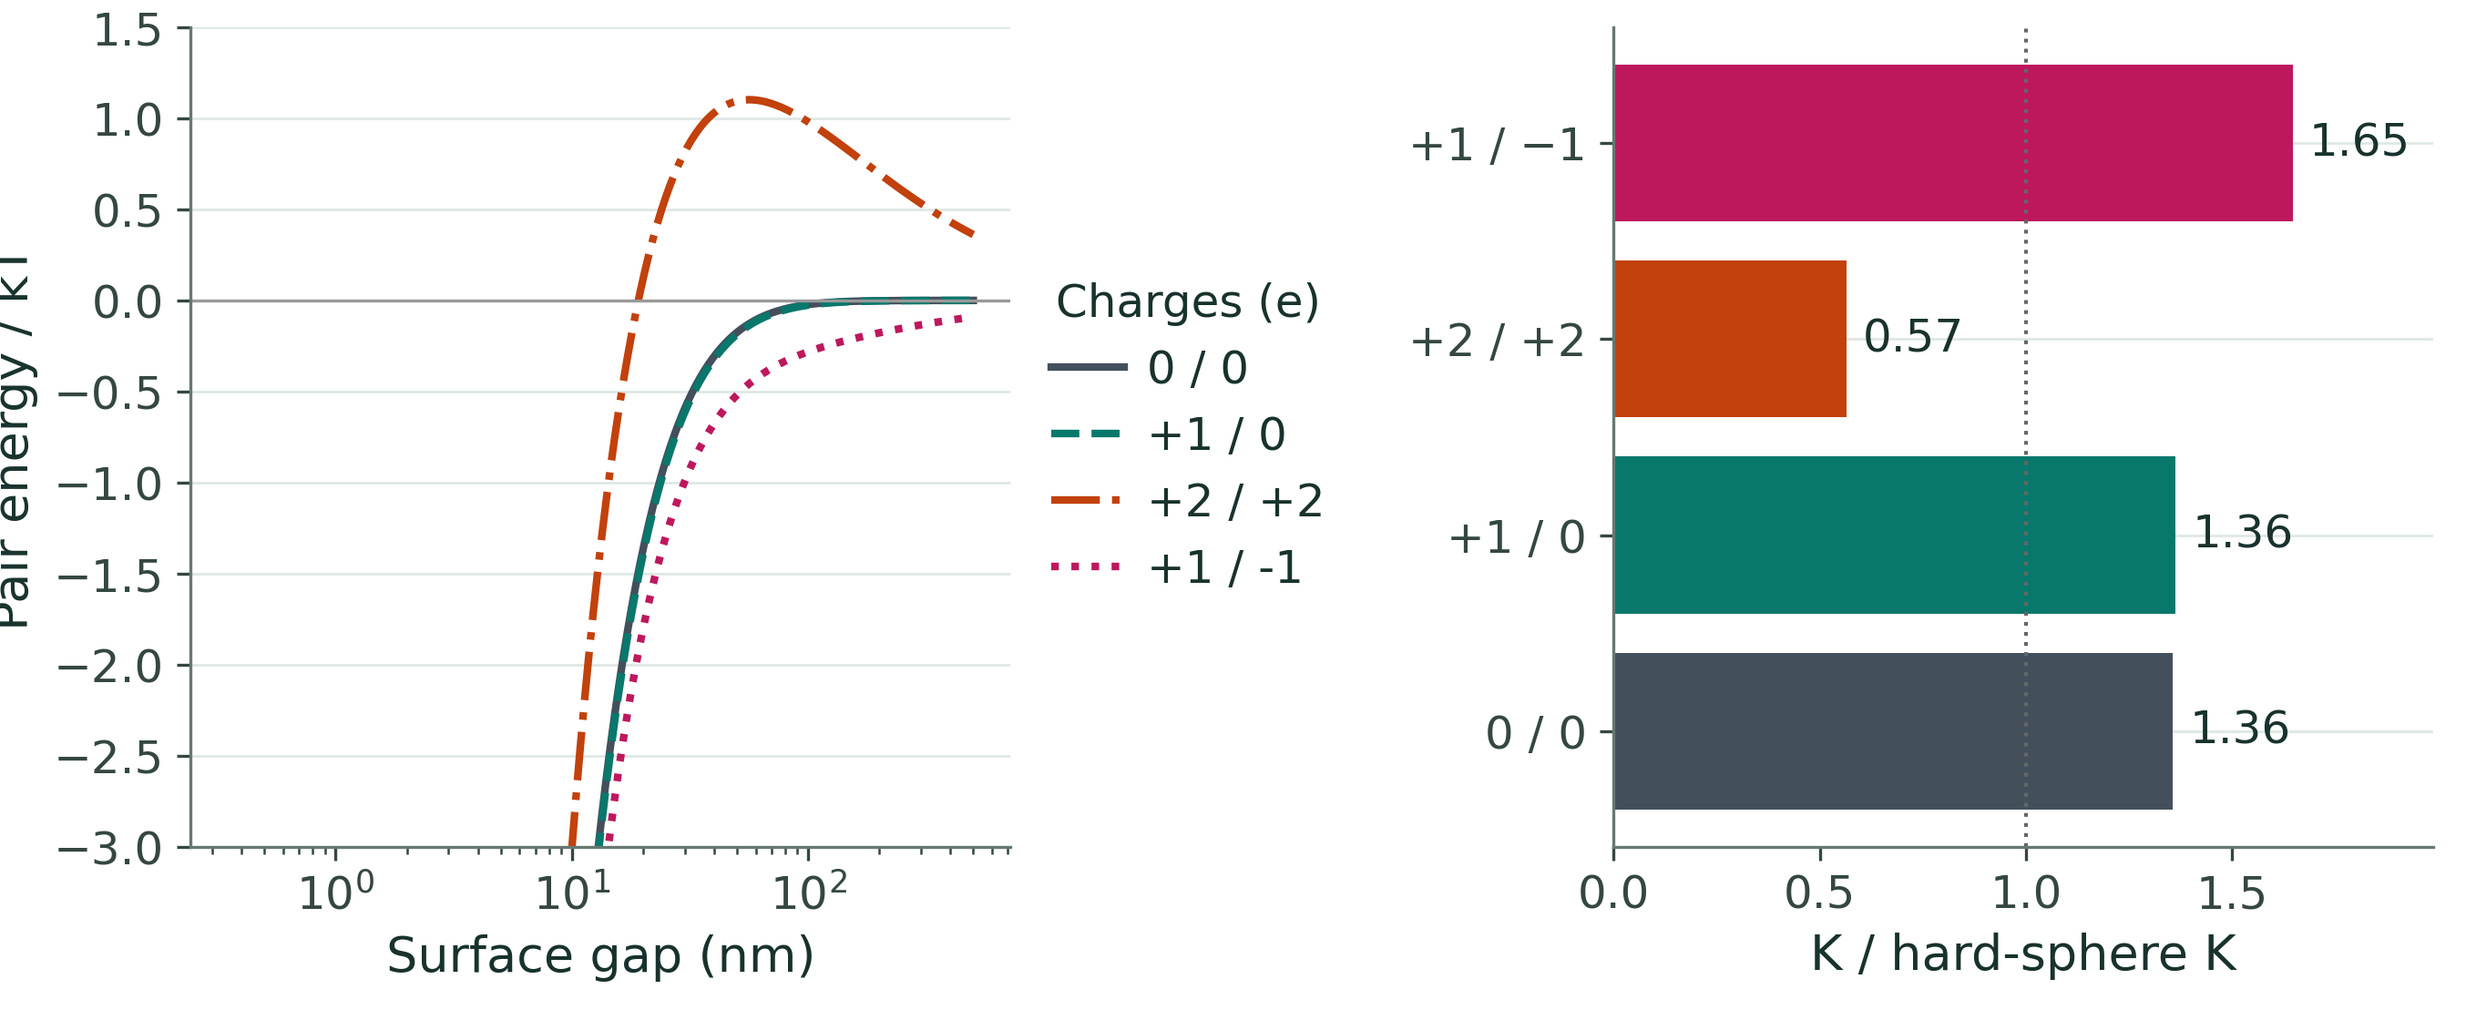
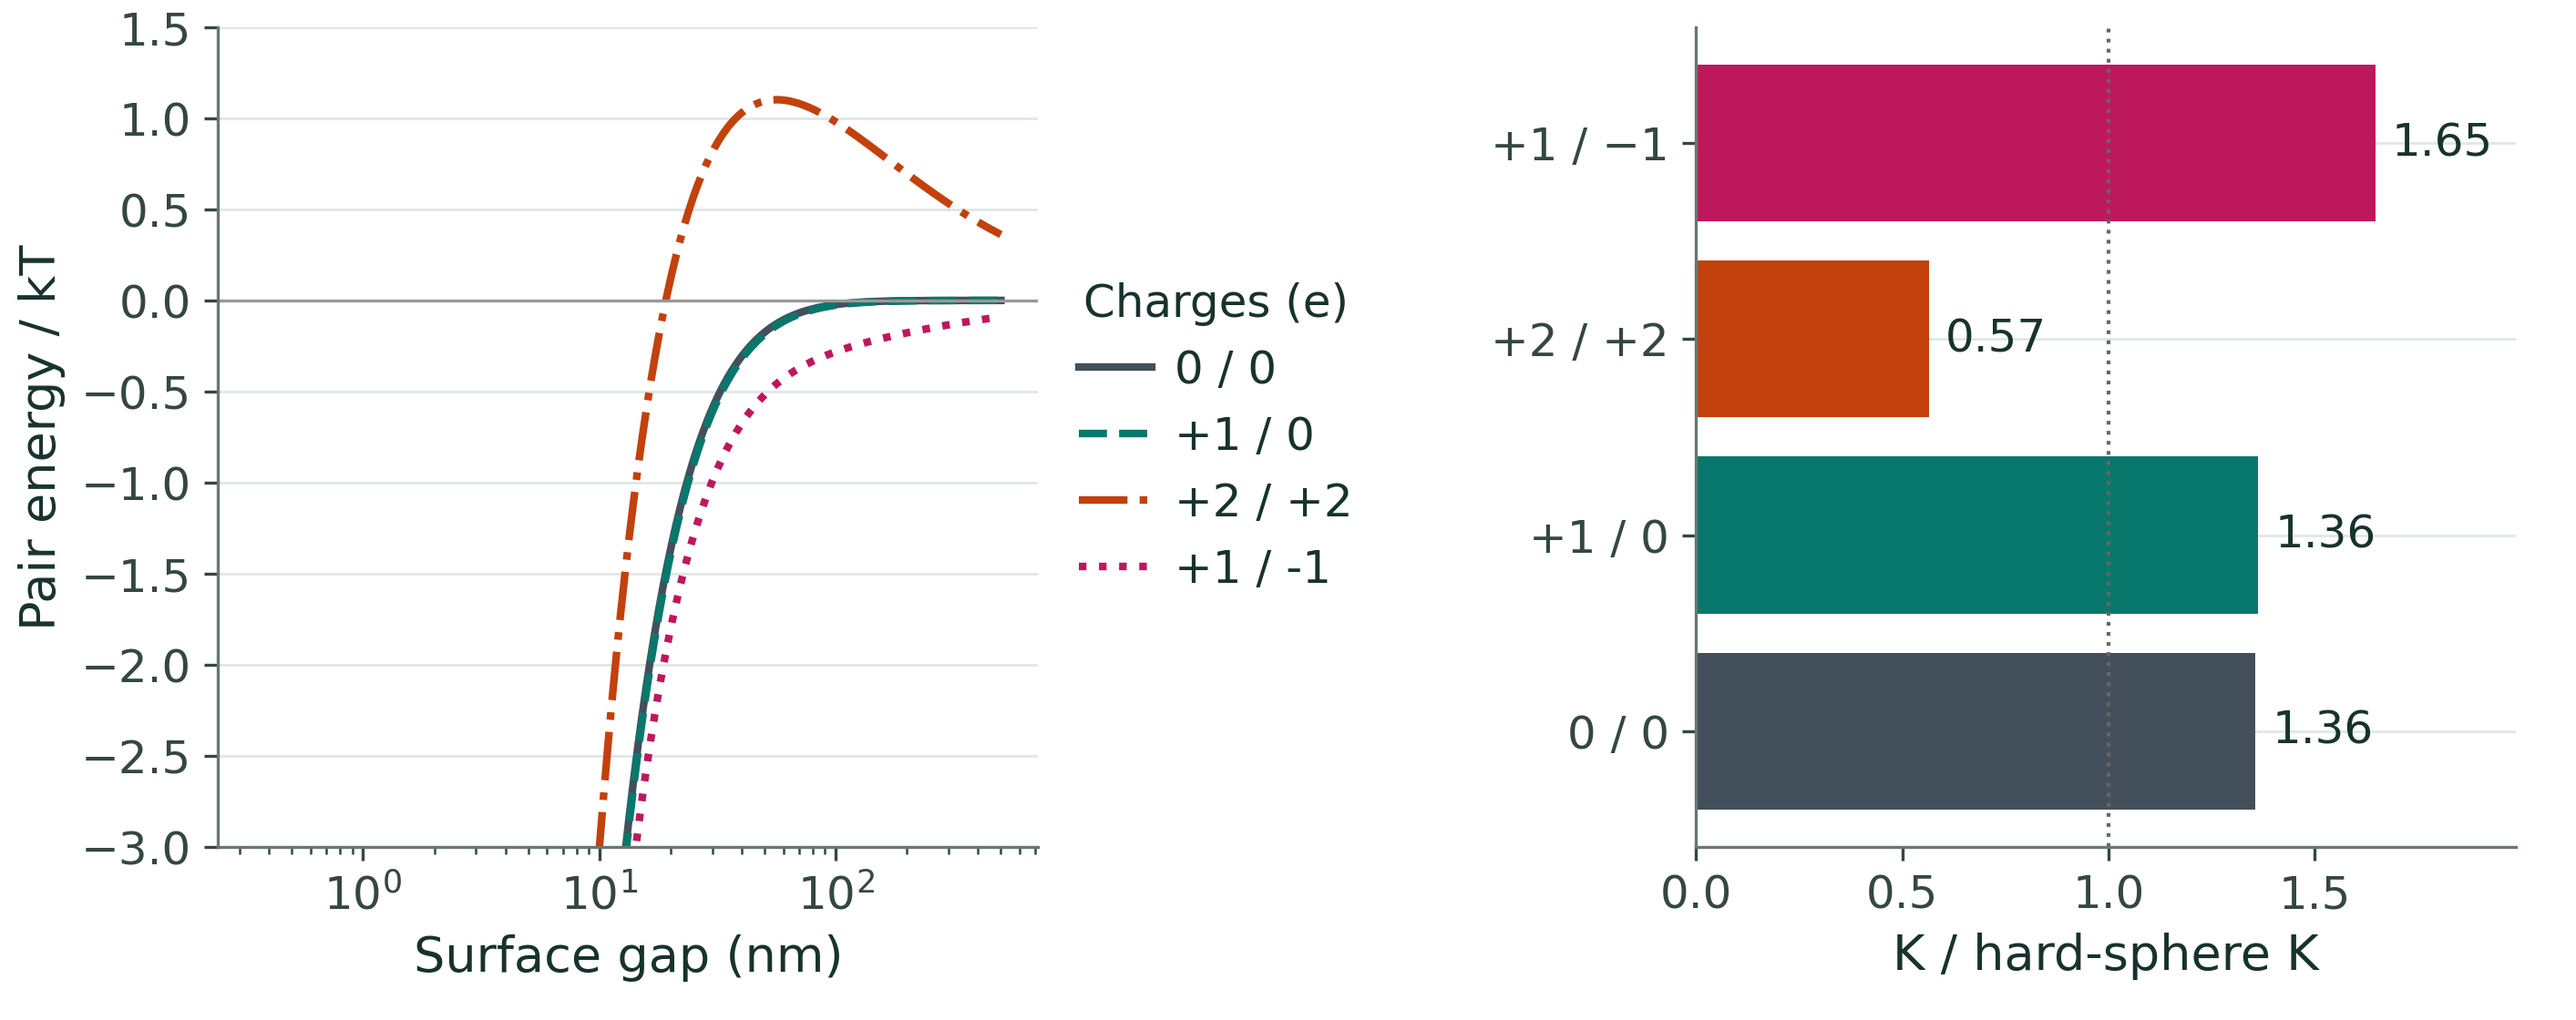
docs(results): verify historical plot data against the original scientific checkout

diff --git a/scripts/docs_examples.py b/scripts/docs_examples.py
@@ -76,6 +76,7 @@ def fingerprint(config, root=ROOT):
         "replot_invoke",
         "render_functions",
         "plot_inputs",
+        "historical_run",
     ):
         if key in config:
             payload[key] = config[key]
@@ -285,8 +286,10 @@ def write_plot_data(path, data):
         raise
 
 
-def load_replot_data(example_id, config, root, results):
+def load_replot_data(example_id, config, root, results, *, science_root=None):
     """Reject missing, altered or scientifically stale numerical data."""
+    if science_root is not None:
+        return load_historical_data(example_id, config, science_root, results)
     directory, original = bundle(example_id, results)
     if not original or "data.json" not in original["files"]:
         raise ValueError(
@@ -307,6 +310,31 @@ def load_replot_data(example_id, config, root, results):
     data = json.loads((directory / "data.json").read_text())
     if not isinstance(data, (dict, list)):
         raise ValueError("Plot data must be a JSON object or array")
+    return directory, original, data
+
+
+def load_historical_data(example_id, config, science_root, results):
+    """Check saved observations against their original scientific checkout."""
+    pin = config.get("historical_run")
+    if not pin:
+        raise ValueError("This example has no pinned historical run")
+    revision = subprocess.check_output(  # noqa: S603 -- Git argv without a shell
+        [GIT, "rev-parse", "HEAD"], cwd=science_root, text=True
+    ).strip()
+    if revision != pin["revision"]:
+        raise ValueError(
+            "Historical checkout does not match the pinned revision"
+        )
+    historical_config = json.loads(
+        (science_root / "website/examples.json").read_text()
+    )[example_id]
+    directory, original, data = load_replot_data(
+        example_id, historical_config, science_root, results
+    )
+    if original["revision"] != revision or (
+        original["files"]["data.json"] != pin["data_sha256"]
+    ):
+        raise ValueError("Saved data does not match the pinned historical run")
     return directory, original, data
 
 
@@ -354,7 +382,43 @@ def validate_render(config, root, source, initial_fingerprint, cells, data):
         )
 
 
-def refresh(example_id, config, root=ROOT, results=RESULTS, *, replot=False):
+def retain_execution_metadata(
+    manifest, original, config, science_root, device, revision, elapsed
+):
+    """Identify the rendering separately from the original simulation."""
+    if science_root is not None:
+        manifest["historical_run"] = config["historical_run"]
+        manifest["simulation_fingerprint"] = original["simulation_fingerprint"]
+    manifest["render_versions"] = manifest["versions"]
+    manifest["render_device"] = device
+    for key in (
+        "elapsed_seconds",
+        "package_source_sha256",
+        "revision",
+        "package_dirty",
+        "executed_at",
+        "device",
+        "python",
+        "versions",
+    ):
+        manifest[key] = original[key]
+    manifest["execution_input_sha256"] = original.get(
+        "execution_input_sha256", original["input_sha256"]
+    )
+    manifest["rendered_at"] = datetime.now(timezone.utc).isoformat()
+    manifest["render_revision"] = revision
+    manifest["render_elapsed_seconds"] = elapsed
+
+
+def refresh(
+    example_id,
+    config,
+    root=ROOT,
+    results=RESULTS,
+    *,
+    replot=False,
+    science_root=None,
+):
     """Publish a complete result generation only after successful execution."""
     source = (root / config["source"]).read_bytes()
     initial_fingerprint = fingerprint(config, root)
@@ -365,7 +429,7 @@ def refresh(example_id, config, root=ROOT, results=RESULTS, *, replot=False):
     data = None
     if replot:
         directory, original, data = load_replot_data(
-            example_id, config, root, results
+            example_id, config, root, results, science_root=science_root
         )
     started = time.monotonic()
     cells, device = (
@@ -435,25 +499,15 @@ def refresh(example_id, config, root=ROOT, results=RESULTS, *, replot=False):
                 config, root
             )
         if replot:
-            manifest["render_versions"] = manifest["versions"]
-            manifest["render_device"] = device
-            for key in (
-                "elapsed_seconds",
-                "package_source_sha256",
-                "revision",
-                "package_dirty",
-                "executed_at",
-                "device",
-                "python",
-                "versions",
-            ):
-                manifest[key] = original[key]
-            manifest["execution_input_sha256"] = original.get(
-                "execution_input_sha256", original["input_sha256"]
+            retain_execution_metadata(
+                manifest,
+                original,
+                config,
+                science_root,
+                device,
+                revision,
+                elapsed,
             )
-            manifest["rendered_at"] = datetime.now(timezone.utc).isoformat()
-            manifest["render_revision"] = revision
-            manifest["render_elapsed_seconds"] = elapsed
         (pending / "manifest.json").write_text(
             json.dumps(manifest, indent=2) + "\n"
         )
@@ -632,6 +686,11 @@ def main():
     run.add_argument("example")
     replot = sub.add_parser("replot")
     replot.add_argument("example")
+    replot.add_argument(
+        "--science-checkout",
+        type=Path,
+        help="Verify archived data against its original scientific checkout.",
+    )
     sub.add_parser("migrate-results")
     check = sub.add_parser("check")
     check.add_argument("--changed", action="store_true")
@@ -646,7 +705,10 @@ def main():
         if args.example not in configs:
             parser.error(f"Unknown example: {args.example}")
         refresh(
-            args.example, configs[args.example], replot=args.command == "replot"
+            args.example,
+            configs[args.example],
+            replot=args.command == "replot",
+            science_root=getattr(args, "science_checkout", None),
         )
         return
     selected = (

diff --git a/scripts/tests/docs_examples_test.py b/scripts/tests/docs_examples_test.py
@@ -519,3 +519,60 @@ def test_full_canvas_fingerprints_style_without_invalidating_legacy(example):
         assert examples.fingerprint(styled, root) != initial
         (root / name).write_text("original")
     assert examples.fingerprint(config, root) == legacy
+
+
+def test_historical_replot_checks_original_inputs_and_pinned_data(tmp_path):
+    """An archive must match the original source, library and observations."""
+    science = tmp_path / "original"
+    science.mkdir()
+    (science / "website").mkdir()
+    config = {"source": "study.py", "device": "cuda"}
+    (science / "study.py").write_text("value = 3\n")
+    (science / "website/examples.json").write_text(json.dumps({"demo": config}))
+
+    def git(*args):
+        return subprocess.check_output(  # noqa: S603 -- local test repository
+            [examples.GIT, *args], cwd=science, text=True
+        ).strip()
+
+    git("init", "-q")
+    git("add", ".")
+    git(
+        "-c",
+        "user.name=Test",
+        "-c",
+        "user.email=test@example.org",
+        "commit",
+        "-qm",
+        "Original study",
+    )
+    revision = git("rev-parse", "HEAD")
+    results = tmp_path / "results"
+    directory = results / "demo"
+    directory.mkdir(parents=True)
+    data = b'{"observation": 3}'
+    (directory / "data.json").write_bytes(data)
+    digest = hashlib.sha256(data).hexdigest()
+    manifest = {
+        "revision": revision,
+        "files": {"data.json": digest},
+        "simulation_fingerprint": examples.simulation_fingerprint(
+            config, science
+        ),
+        "package_source_sha256": examples.package_source_hash(science),
+    }
+    (directory / "manifest.json").write_text(json.dumps(manifest))
+    pin = {"revision": revision, "data_sha256": digest}
+    current = {**config, "historical_run": pin}
+    assert examples.load_historical_data("demo", current, science, results)[
+        2
+    ] == {"observation": 3}
+    with pytest.raises(ValueError, match="no pinned"):
+        examples.load_historical_data("demo", config, science, results)
+    pin["data_sha256"] = "0" * 64
+    with pytest.raises(ValueError, match="pinned historical run"):
+        examples.load_historical_data("demo", current, science, results)
+    pin["data_sha256"] = digest
+    (science / "study.py").write_text("value = 4\n")
+    with pytest.raises(ValueError, match="Simulation inputs changed"):
+        examples.load_historical_data("demo", current, science, results)

diff --git a/scripts/docs_site.py b/scripts/docs_site.py
@@ -215,6 +215,15 @@ def example_downloads(key, config, source):
     return " · ".join(links)
 
 
+def result_notice(state, manifest):
+    """Describe the evidence behind the displayed figures."""
+    if state != "current":
+        return "Results from an earlier run—refresh needed", "caution"
+    if manifest.get("historical_run"):
+        return "Historical simulation, updated figures", "caution"
+    return "Matching saved results", "note"
+
+
 def render_example(key, config):
     """Render current source and saved output without execution."""
     directory, manifest = bundle(key)
@@ -225,12 +234,7 @@ def render_example(key, config):
     if directory:
         destination = SITE / "public/results" / key
         shutil.copytree(directory, destination, dirs_exist_ok=True)
-        status = (
-            "Matching saved results"
-            if state == "current"
-            else "Results from an earlier run—refresh needed"
-        )
-        kind = "note" if state == "current" else "caution"
+        status, kind = result_notice(state, manifest)
         executed_source = (
             "executed_source.py" if "rendered_at" in manifest else "source.py"
         )

diff --git a/docs/examples/gpu/prepared/gpu_prepared_cyclic_chamber.py b/docs/examples/gpu/prepared/gpu_prepared_cyclic_chamber.py
@@ -1,6 +1,11 @@
 # %% [markdown]
 # # Repeated source pulses in a cooling and warming aerosol
 #
+# The figures use the archived November 16 CUDA run. At its one-second
+# coagulation interval, current Particula requests 275,911 collision trials
+# in the first box and has capacity for 3,136. The current simulation stops
+# at that check. The archived arrays retain the original interval and model.
+#
 # What must be saved to reproduce a simulation driven by repeated external
 # pulses? This example separates the evolving aerosol from the forcing schedule
 # and its source ledger. Start with the [prepared quick start](gpu_prepared_quick_start.py)

diff --git a/scripts/docs_report.py b/scripts/docs_report.py
@@ -48,7 +48,9 @@ def execution_inventory():
                 "source": config["source"],
                 "policy": config["policy"],
                 "bundle": str(directory.relative_to(ROOT)),
-                "state": "current",
+                "state": "historical"
+                if manifest.get("historical_run")
+                else "current",
                 **{name: manifest[name] for name in required},
                 "figures": sum(
                     "image" in item

diff --git a/scripts/coagulation_validation/potential_figure.py b/scripts/coagulation_validation/potential_figure.py
@@ -72,7 +72,7 @@ def plot():
         / "docs/images/coagulation/van-der-waals-potentials.png"
     )
     path.parent.mkdir(parents=True, exist_ok=True)
-    fig.get_layout_engine().set(w_pad=0.12, h_pad=0.10)
+    fig.get_layout_engine().set(w_pad=0.22, h_pad=0.10)
     plotting.fit(fig)
     fig.savefig(path, dpi=300)
     plt.close(fig)

diff --git a/website/AUTHORING.md b/website/AUTHORING.md
@@ -53,6 +53,19 @@ JSON has a **10 MiB hard limit per example**, enforced while writing. This limit
 saved plot data, not simulation RAM or figure size. Oversized data fails clearly
 and preserves the previous successful bundle; it is never silently truncated.
 
+A historical study can pin its original scientific revision and the SHA-256
+of its published `data.json` in the registry under `historical_run`. To redraw
+it, point the same verification checks at a checkout of the executed revision:
+
+```bash
+python scripts/docs_examples.py replot gpu-prepared-cyclic-chamber --science-checkout ../particula-original
+```
+
+The current checkout supplies the renderer. The historical checkout supplies
+the scientific source and inputs for verification. The page identifies the
+historical simulation and links its executed source, arrays and original
+device. To publish a result from the current model, run a full refresh.
+
 ## Validate changes
 
 ```bash
